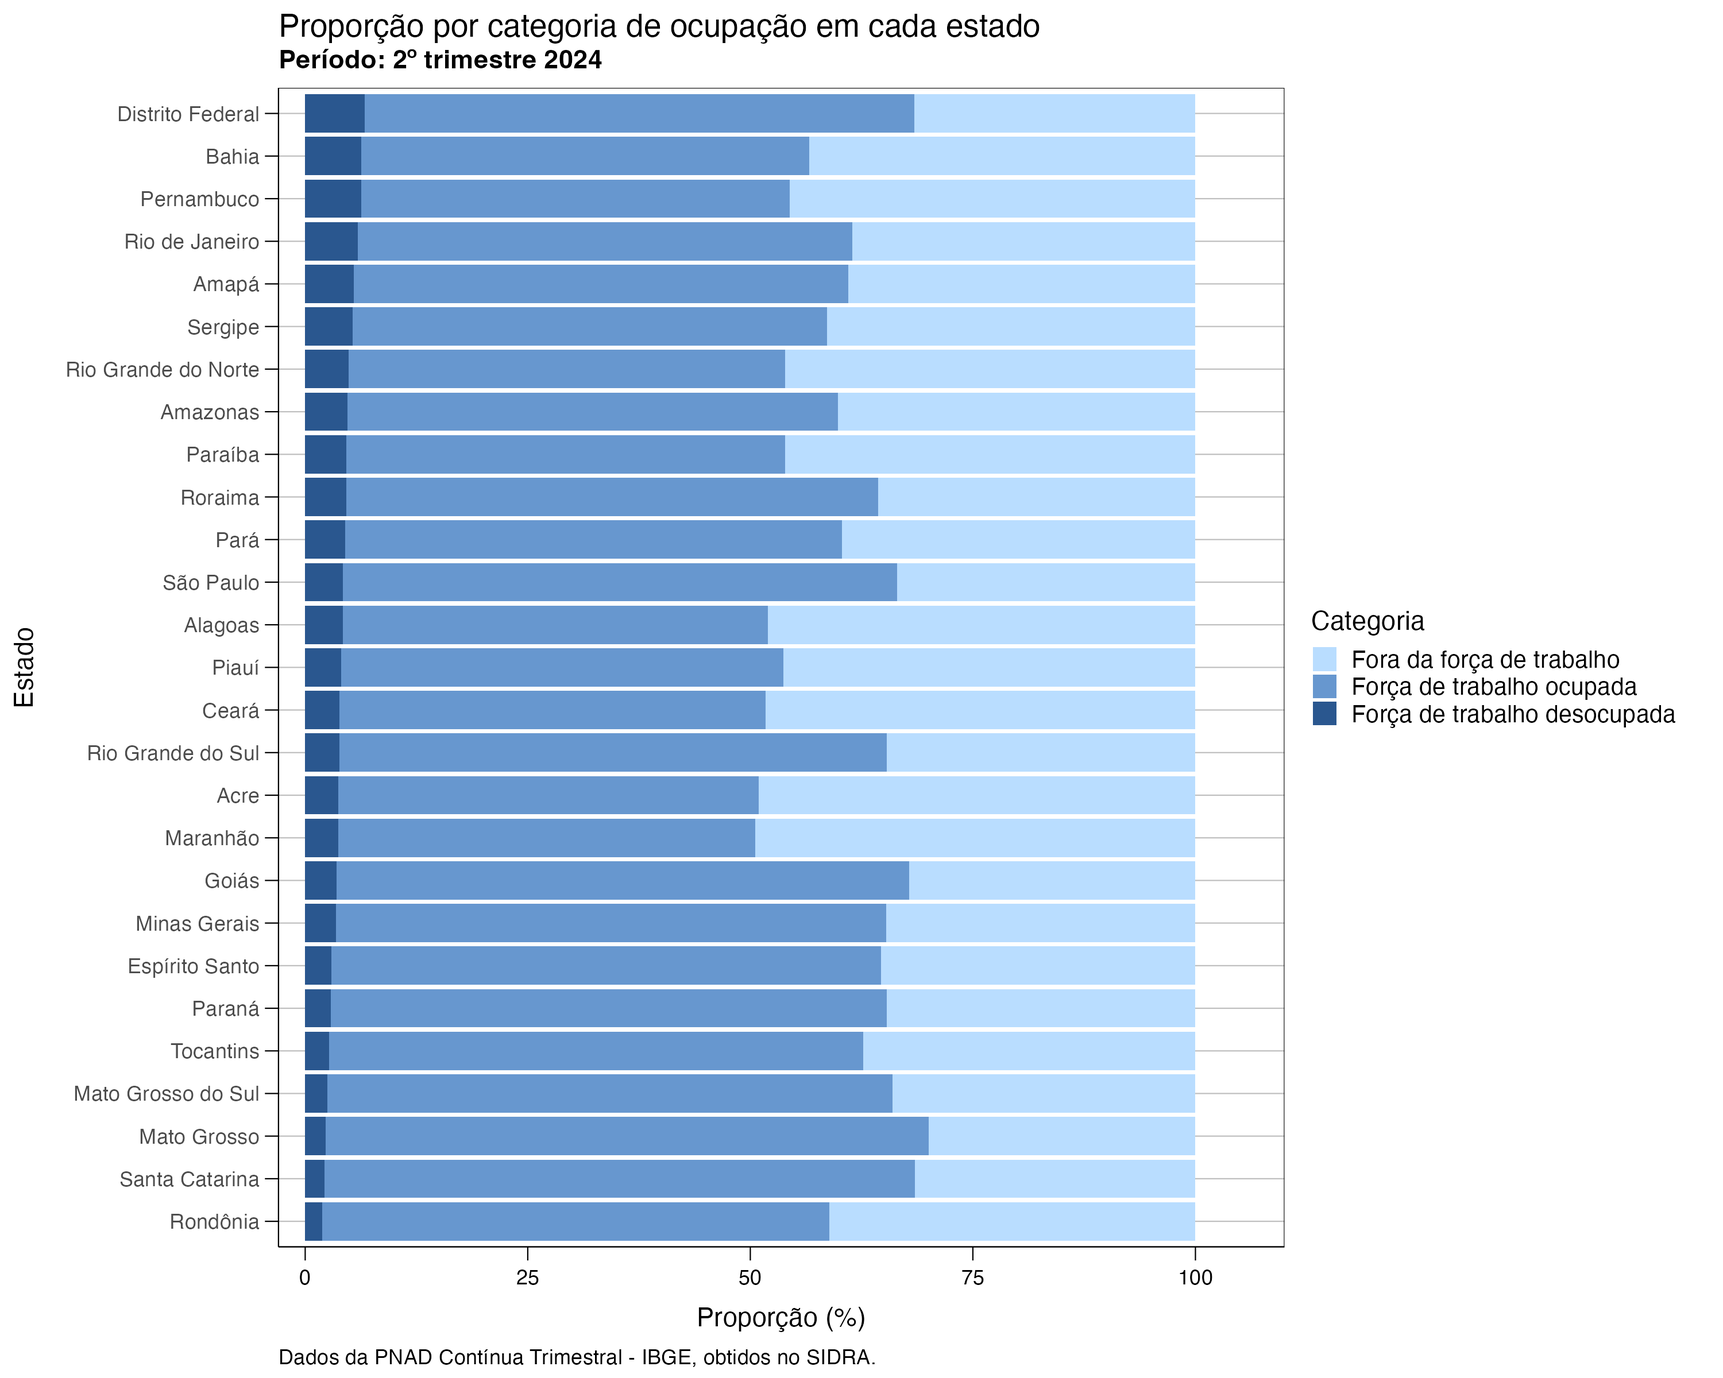
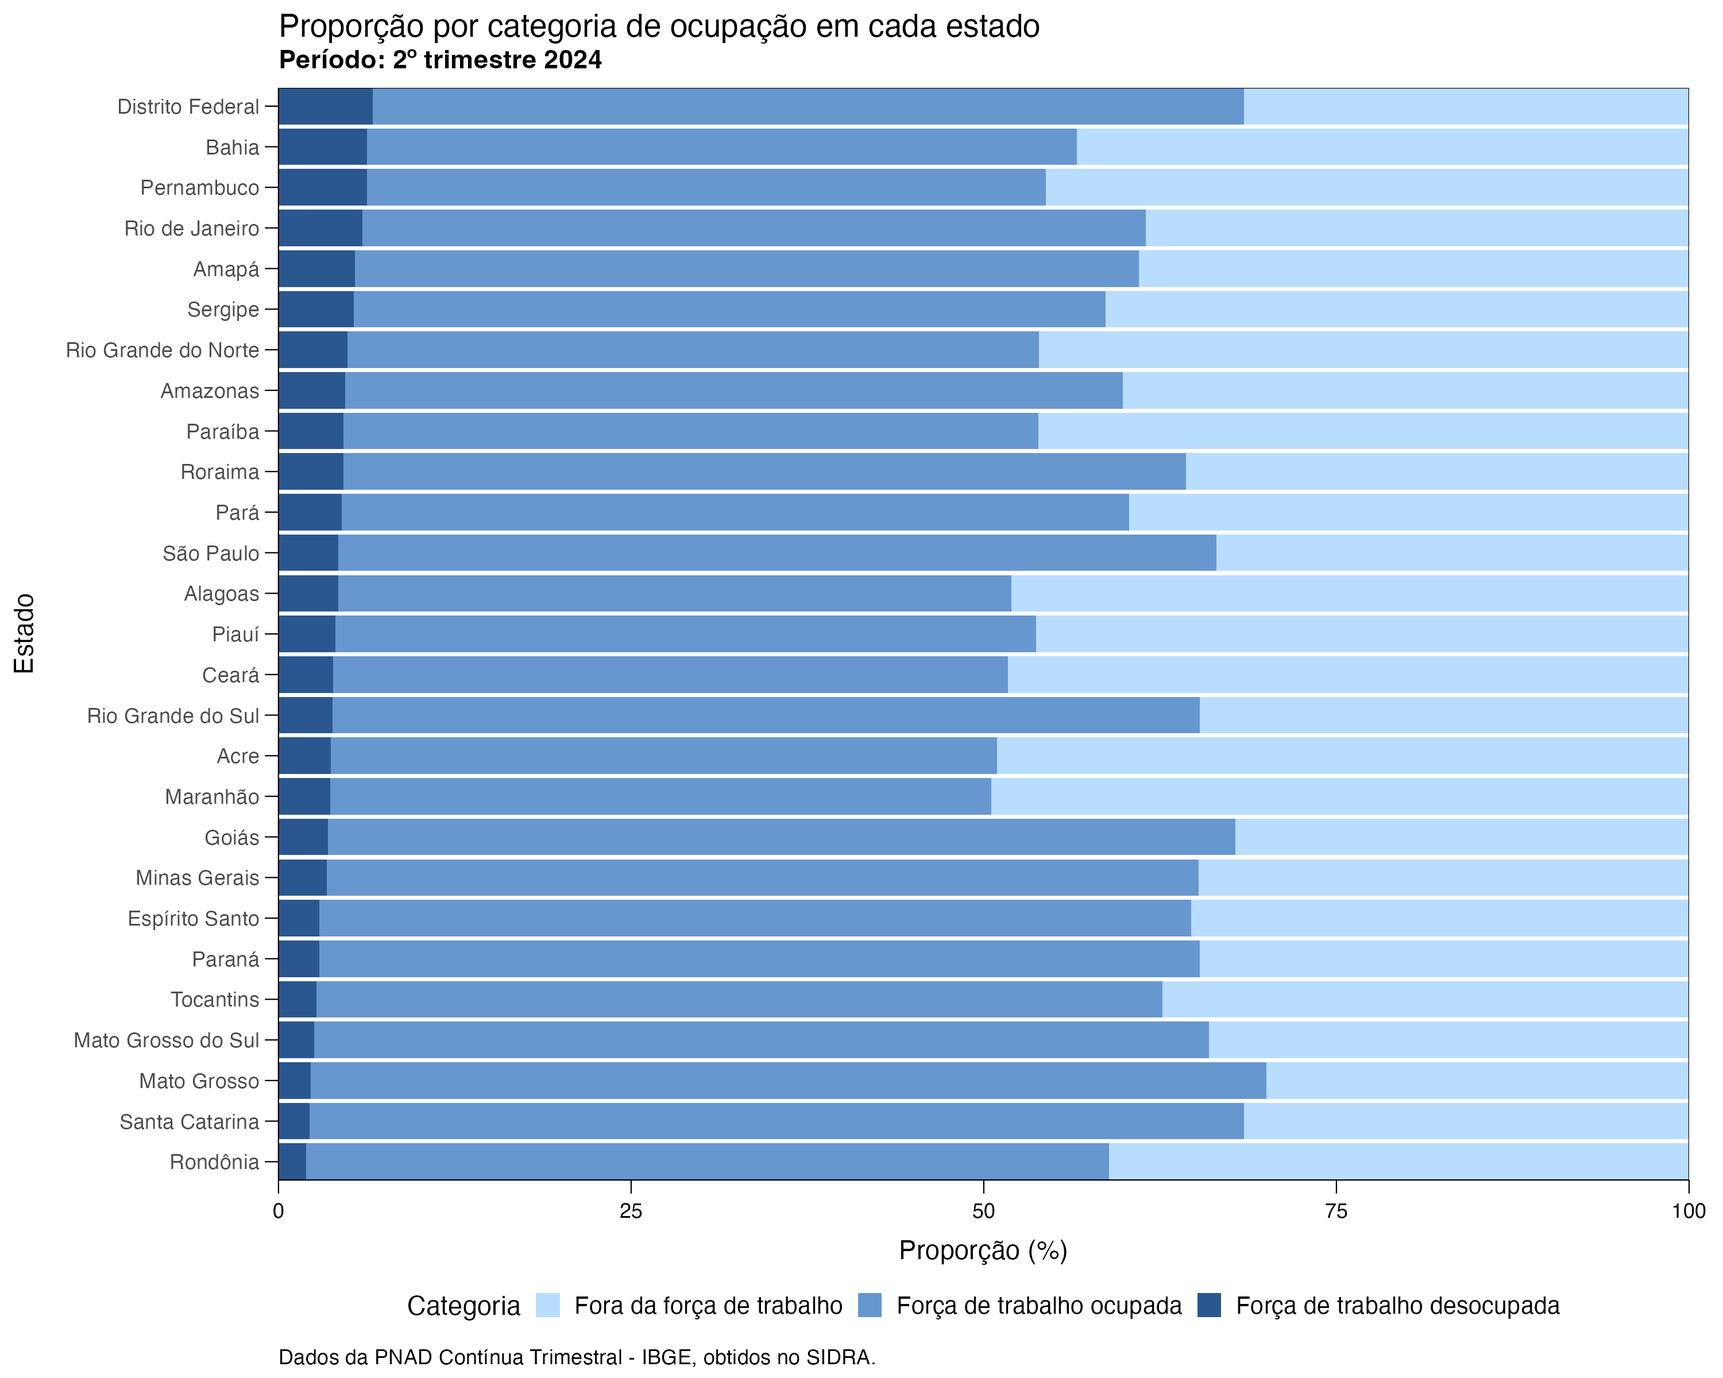
atualiza visualizacao exemplo

diff --git a/docs/07_visualizacao_exemplo.html b/docs/07_visualizacao_exemplo.html
@@ -436,24 +436,24 @@ Expanda para fazer download da base de dados
 <p>Caso não tenha o arquivo da tabela que utilizaremos, você pode baixar <a href="https://github.com/ipeadata-lab/curso_r_intro_202409/raw/refs/heads/main/dados_output/sidra_4092_arrumado.rds">aqui</a>, e copiar o arquivo para a pasta <code>dados_output</code> do seu projeto.</p>
 <p>Outra opção é executar o código abaixo:</p>
 <div class="cell">
-<div class="sourceCode cell-code" id="annotated-cell-17"><pre class="sourceCode r code-annotation-code code-with-copy code-annotated"><code class="sourceCode r"><span id="annotated-cell-17-1"><a href="#annotated-cell-17-1" aria-hidden="true" tabindex="-1"></a><span class="fu">download.file</span>(</span>
-<button class="code-annotation-anchor" data-target-cell="annotated-cell-17" data-target-annotation="1">1</button><span id="annotated-cell-17-2" class="code-annotation-target"><a href="#annotated-cell-17-2" aria-hidden="true" tabindex="-1"></a>  <span class="at">url =</span> <span class="st">"https://github.com/ipeadata-lab/curso_r_intro_202409/raw/refs/heads/main/dados_output/sidra_4092_arrumado.rds"</span>,</span>
-<button class="code-annotation-anchor" data-target-cell="annotated-cell-17" data-target-annotation="2">2</button><span id="annotated-cell-17-3" class="code-annotation-target"><a href="#annotated-cell-17-3" aria-hidden="true" tabindex="-1"></a>  <span class="at">destfile =</span> <span class="st">"dados_output/sidra_4092_arrumado.rds"</span>,</span>
-<button class="code-annotation-anchor" data-target-cell="annotated-cell-17" data-target-annotation="3">3</button><span id="annotated-cell-17-4" class="code-annotation-target"><a href="#annotated-cell-17-4" aria-hidden="true" tabindex="-1"></a>  <span class="at">mode =</span> <span class="st">"wb"</span></span>
-<span id="annotated-cell-17-5"><a href="#annotated-cell-17-5" aria-hidden="true" tabindex="-1"></a>  )</span><div class="code-annotation-gutter-bg"></div><div class="code-annotation-gutter"></div></code><button title="Copiar para a área de transferência" class="code-copy-button"><i class="bi"></i></button></pre></div>
+<div class="sourceCode cell-code" id="annotated-cell-18"><pre class="sourceCode r code-annotation-code code-with-copy code-annotated"><code class="sourceCode r"><span id="annotated-cell-18-1"><a href="#annotated-cell-18-1" aria-hidden="true" tabindex="-1"></a><span class="fu">download.file</span>(</span>
+<button class="code-annotation-anchor" data-target-cell="annotated-cell-18" data-target-annotation="1">1</button><span id="annotated-cell-18-2" class="code-annotation-target"><a href="#annotated-cell-18-2" aria-hidden="true" tabindex="-1"></a>  <span class="at">url =</span> <span class="st">"https://github.com/ipeadata-lab/curso_r_intro_202409/raw/refs/heads/main/dados_output/sidra_4092_arrumado.rds"</span>,</span>
+<button class="code-annotation-anchor" data-target-cell="annotated-cell-18" data-target-annotation="2">2</button><span id="annotated-cell-18-3" class="code-annotation-target"><a href="#annotated-cell-18-3" aria-hidden="true" tabindex="-1"></a>  <span class="at">destfile =</span> <span class="st">"dados_output/sidra_4092_arrumado.rds"</span>,</span>
+<button class="code-annotation-anchor" data-target-cell="annotated-cell-18" data-target-annotation="3">3</button><span id="annotated-cell-18-4" class="code-annotation-target"><a href="#annotated-cell-18-4" aria-hidden="true" tabindex="-1"></a>  <span class="at">mode =</span> <span class="st">"wb"</span></span>
+<span id="annotated-cell-18-5"><a href="#annotated-cell-18-5" aria-hidden="true" tabindex="-1"></a>  )</span><div class="code-annotation-gutter-bg"></div><div class="code-annotation-gutter"></div></code><button title="Copiar para a área de transferência" class="code-copy-button"><i class="bi"></i></button></pre></div>
 <div class="cell-annotation">
 <dl class="code-annotation-container-hidden code-annotation-container-grid">
-<dt data-target-cell="annotated-cell-17" data-target-annotation="1">1</dt>
+<dt data-target-cell="annotated-cell-18" data-target-annotation="1">1</dt>
 <dd>
-<span data-code-cell="annotated-cell-17" data-code-lines="2" data-code-annotation="1">URL que desejamos baixar</span>
+<span data-code-cell="annotated-cell-18" data-code-lines="2" data-code-annotation="1">URL que desejamos baixar</span>
 </dd>
-<dt data-target-cell="annotated-cell-17" data-target-annotation="2">2</dt>
+<dt data-target-cell="annotated-cell-18" data-target-annotation="2">2</dt>
 <dd>
-<span data-code-cell="annotated-cell-17" data-code-lines="3" data-code-annotation="2">Caminho onde queremos baixar o arquivo (diretório + nome do arquivo + extensão do arquivo)</span>
+<span data-code-cell="annotated-cell-18" data-code-lines="3" data-code-annotation="2">Caminho onde queremos baixar o arquivo (diretório + nome do arquivo + extensão do arquivo)</span>
 </dd>
-<dt data-target-cell="annotated-cell-17" data-target-annotation="3">3</dt>
+<dt data-target-cell="annotated-cell-18" data-target-annotation="3">3</dt>
 <dd>
-<span data-code-cell="annotated-cell-17" data-code-lines="4" data-code-annotation="3">Configuração que evita corromper arquivos binários.</span>
+<span data-code-cell="annotated-cell-18" data-code-lines="4" data-code-annotation="3">Configuração que evita corromper arquivos binários.</span>
 </dd>
 </dl>
 </div>
@@ -894,18 +894,26 @@ Expanda para fazer download da base de dados
 </div>
 <p>Agora aproveitaremos o exemplo anterior para demonstrar o funcionamnto do <code>{ipeaplot}</code>. Vamos começar a modificar a figura, usando o <code>{ipeaplot}</code> para ajustar ao “padrão do Ipea”. Primeiro usamos a função <code>theme_ipea()</code> no lugar de <code>theme_minimal()</code>.</p>
 <div class="cell">
-<div class="sourceCode cell-code" id="annotated-cell-14"><pre class="sourceCode r code-annotation-code code-with-copy code-annotated"><code class="sourceCode r"><span id="annotated-cell-14-1"><a href="#annotated-cell-14-1" aria-hidden="true" tabindex="-1"></a>grafico_ipeaplot <span class="ot">&lt;-</span> grafico_proporcao <span class="sc">+</span></span>
-<button class="code-annotation-anchor" data-target-cell="annotated-cell-14" data-target-annotation="1">1</button><span id="annotated-cell-14-2" class="code-annotation-target"><a href="#annotated-cell-14-2" aria-hidden="true" tabindex="-1"></a>  <span class="fu">theme_ipea</span>()</span>
-<span id="annotated-cell-14-3"><a href="#annotated-cell-14-3" aria-hidden="true" tabindex="-1"></a></span>
-<span id="annotated-cell-14-4"><a href="#annotated-cell-14-4" aria-hidden="true" tabindex="-1"></a>grafico_ipeaplot</span><div class="code-annotation-gutter-bg"></div><div class="code-annotation-gutter"></div></code><button title="Copiar para a área de transferência" class="code-copy-button"><i class="bi"></i></button></pre></div>
+<div class="sourceCode cell-code" id="annotated-cell-14"><pre class="sourceCode r code-annotation-code code-with-copy code-annotated"><code class="sourceCode r"><span id="annotated-cell-14-1"><a href="#annotated-cell-14-1" aria-hidden="true" tabindex="-1"></a>grafico_ipeaplot <span class="ot">&lt;-</span> grafico_proporcao <span class="sc">+</span> </span>
+<button class="code-annotation-anchor" data-target-cell="annotated-cell-14" data-target-annotation="1">1</button><span id="annotated-cell-14-2" class="code-annotation-target"><a href="#annotated-cell-14-2" aria-hidden="true" tabindex="-1"></a>  <span class="fu">theme_ipea</span>(<span class="at">legend.position =</span> <span class="st">"bottom"</span>) <span class="sc">+</span></span>
+<button class="code-annotation-anchor" data-target-cell="annotated-cell-14" data-target-annotation="2">2</button><span id="annotated-cell-14-3" class="code-annotation-target"><a href="#annotated-cell-14-3" aria-hidden="true" tabindex="-1"></a>  <span class="fu">coord_flip</span>(<span class="at">expand =</span> <span class="cn">FALSE</span>)</span><div class="code-annotation-gutter-bg"></div><div class="code-annotation-gutter"></div></code><button title="Copiar para a área de transferência" class="code-copy-button"><i class="bi"></i></button></pre></div>
 <div class="cell-annotation">
 <dl class="code-annotation-container-hidden code-annotation-container-grid">
 <dt data-target-cell="annotated-cell-14" data-target-annotation="1">1</dt>
 <dd>
 <span data-code-cell="annotated-cell-14" data-code-lines="2" data-code-annotation="1">Adotando o tema padrão do Ipea</span>
 </dd>
+<dt data-target-cell="annotated-cell-14" data-target-annotation="2">2</dt>
+<dd>
+<span data-code-cell="annotated-cell-14" data-code-lines="3" data-code-annotation="2">Retirando espaços em branco. O argumento <code>expand = FALSE</code> limita o gráfico à área dos dados (sem espaços em branco antes do valor 0 e depois do valor 100).</span>
+</dd>
 </dl>
 </div>
+<div class="cell-output cell-output-stderr">
+<pre><code>Coordinate system already present. Adding new coordinate system, which will
+replace the existing one.</code></pre>
+</div>
+<div class="sourceCode cell-code" id="cb5"><pre class="sourceCode r code-with-copy"><code class="sourceCode r"><span id="cb5-1"><a href="#cb5-1" aria-hidden="true" tabindex="-1"></a>grafico_ipeaplot</span></code><button title="Copiar para a área de transferência" class="code-copy-button"><i class="bi"></i></button></pre></div>
 <div class="cell-output-display">
 <div>
 <figure class="figure">
@@ -916,15 +924,15 @@ Expanda para fazer download da base de dados
 </div>
 <p>Apesar de sutis, temos alterações nas bordas, nas fontes e nas legendas da figura. Em seguida, vamos mudar a escala de cores para adotar o padrão “Texto para Discussão do Ipea” (paleta de cores azul):</p>
 <div class="cell">
-<div class="sourceCode cell-code" id="annotated-cell-15"><pre class="sourceCode r code-annotation-code code-with-copy code-annotated"><code class="sourceCode r"><span id="annotated-cell-15-1"><a href="#annotated-cell-15-1" aria-hidden="true" tabindex="-1"></a>grafico_ipeaplot <span class="ot">&lt;-</span> grafico_ipeaplot <span class="sc">+</span></span>
-<button class="code-annotation-anchor" data-target-cell="annotated-cell-15" data-target-annotation="1">1</button><span id="annotated-cell-15-2" class="code-annotation-target"><a href="#annotated-cell-15-2" aria-hidden="true" tabindex="-1"></a>  <span class="fu">scale_fill_ipea</span>(<span class="at">palette =</span> <span class="st">'Blue'</span>)</span>
-<span id="annotated-cell-15-3"><a href="#annotated-cell-15-3" aria-hidden="true" tabindex="-1"></a></span>
-<span id="annotated-cell-15-4"><a href="#annotated-cell-15-4" aria-hidden="true" tabindex="-1"></a>grafico_ipeaplot</span><div class="code-annotation-gutter-bg"></div><div class="code-annotation-gutter"></div></code><button title="Copiar para a área de transferência" class="code-copy-button"><i class="bi"></i></button></pre></div>
+<div class="sourceCode cell-code" id="annotated-cell-16"><pre class="sourceCode r code-annotation-code code-with-copy code-annotated"><code class="sourceCode r"><span id="annotated-cell-16-1"><a href="#annotated-cell-16-1" aria-hidden="true" tabindex="-1"></a>grafico_ipeaplot <span class="ot">&lt;-</span> grafico_ipeaplot <span class="sc">+</span></span>
+<button class="code-annotation-anchor" data-target-cell="annotated-cell-16" data-target-annotation="1">1</button><span id="annotated-cell-16-2" class="code-annotation-target"><a href="#annotated-cell-16-2" aria-hidden="true" tabindex="-1"></a>  <span class="fu">scale_fill_ipea</span>(<span class="at">palette =</span> <span class="st">'Blue'</span>)</span>
+<span id="annotated-cell-16-3"><a href="#annotated-cell-16-3" aria-hidden="true" tabindex="-1"></a></span>
+<span id="annotated-cell-16-4"><a href="#annotated-cell-16-4" aria-hidden="true" tabindex="-1"></a>grafico_ipeaplot</span><div class="code-annotation-gutter-bg"></div><div class="code-annotation-gutter"></div></code><button title="Copiar para a área de transferência" class="code-copy-button"><i class="bi"></i></button></pre></div>
 <div class="cell-annotation">
 <dl class="code-annotation-container-hidden code-annotation-container-grid">
-<dt data-target-cell="annotated-cell-15" data-target-annotation="1">1</dt>
+<dt data-target-cell="annotated-cell-16" data-target-annotation="1">1</dt>
 <dd>
-<span data-code-cell="annotated-cell-15" data-code-lines="2" data-code-annotation="1">Usando a paleta de cores azul (“TD”)</span>
+<span data-code-cell="annotated-cell-16" data-code-lines="2" data-code-annotation="1">Usando a paleta de cores azul (“TD”)</span>
 </dd>
 </dl>
 </div>
@@ -938,28 +946,28 @@ Expanda para fazer download da base de dados
 </div>
 <p>Aí está, temos uma figura pronta para publicarmos nosso primeiro “Texto para Discussão” usando o R. Na verdade, nem tão pronta assim, pois o Ipea usa em títulos e legendas a família de fontes <em>Frutiger</em>. Como não é uma família com licença livre não podemos distribuir no <code>{ipeaplot}</code>. Porém, com o passo a seguir, o Editorial poderá, ao receber seu material para publicação, fazer os ajustes necessários na fonte dos títulos e legendas.</p>
 <div class="cell">
-<div class="sourceCode cell-code" id="annotated-cell-16"><pre class="sourceCode r code-annotation-code code-with-copy code-annotated"><code class="sourceCode r"><button class="code-annotation-anchor" data-target-cell="annotated-cell-16" data-target-annotation="1">1</button><span id="annotated-cell-16-1" class="code-annotation-target"><a href="#annotated-cell-16-1" aria-hidden="true" tabindex="-1"></a><span class="fu">save_eps</span>(grafico_ipeaplot,</span>
-<span id="annotated-cell-16-2"><a href="#annotated-cell-16-2" aria-hidden="true" tabindex="-1"></a>         <span class="at">file.name =</span> <span class="st">"graficos/grafico_ipeaplot.eps"</span>,</span>
-<span id="annotated-cell-16-3"><a href="#annotated-cell-16-3" aria-hidden="true" tabindex="-1"></a>         <span class="at">width =</span> <span class="dv">10</span>,</span>
-<span id="annotated-cell-16-4"><a href="#annotated-cell-16-4" aria-hidden="true" tabindex="-1"></a>         <span class="at">height =</span> <span class="dv">8</span>,</span>
-<span id="annotated-cell-16-5"><a href="#annotated-cell-16-5" aria-hidden="true" tabindex="-1"></a>         <span class="at">dpi =</span> <span class="dv">300</span></span>
-<span id="annotated-cell-16-6"><a href="#annotated-cell-16-6" aria-hidden="true" tabindex="-1"></a>)</span>
-<span id="annotated-cell-16-7"><a href="#annotated-cell-16-7" aria-hidden="true" tabindex="-1"></a></span>
-<button class="code-annotation-anchor" data-target-cell="annotated-cell-16" data-target-annotation="2">2</button><span id="annotated-cell-16-8" class="code-annotation-target"><a href="#annotated-cell-16-8" aria-hidden="true" tabindex="-1"></a><span class="fu">save_pdf</span>(grafico_ipeaplot,</span>
-<span id="annotated-cell-16-9"><a href="#annotated-cell-16-9" aria-hidden="true" tabindex="-1"></a>         <span class="at">file.name =</span> <span class="st">"graficos/grafico_ipeaplot.pdf"</span>,</span>
-<span id="annotated-cell-16-10"><a href="#annotated-cell-16-10" aria-hidden="true" tabindex="-1"></a>         <span class="at">width =</span> <span class="dv">10</span>,</span>
-<span id="annotated-cell-16-11"><a href="#annotated-cell-16-11" aria-hidden="true" tabindex="-1"></a>         <span class="at">height =</span> <span class="dv">8</span>,</span>
-<span id="annotated-cell-16-12"><a href="#annotated-cell-16-12" aria-hidden="true" tabindex="-1"></a>         <span class="at">dpi =</span> <span class="dv">300</span></span>
-<span id="annotated-cell-16-13"><a href="#annotated-cell-16-13" aria-hidden="true" tabindex="-1"></a>)</span><div class="code-annotation-gutter-bg"></div><div class="code-annotation-gutter"></div></code><button title="Copiar para a área de transferência" class="code-copy-button"><i class="bi"></i></button></pre></div>
+<div class="sourceCode cell-code" id="annotated-cell-17"><pre class="sourceCode r code-annotation-code code-with-copy code-annotated"><code class="sourceCode r"><button class="code-annotation-anchor" data-target-cell="annotated-cell-17" data-target-annotation="1">1</button><span id="annotated-cell-17-1" class="code-annotation-target"><a href="#annotated-cell-17-1" aria-hidden="true" tabindex="-1"></a><span class="fu">save_eps</span>(grafico_ipeaplot,</span>
+<span id="annotated-cell-17-2"><a href="#annotated-cell-17-2" aria-hidden="true" tabindex="-1"></a>         <span class="at">file.name =</span> <span class="st">"graficos/grafico_ipeaplot.eps"</span>,</span>
+<span id="annotated-cell-17-3"><a href="#annotated-cell-17-3" aria-hidden="true" tabindex="-1"></a>         <span class="at">width =</span> <span class="dv">10</span>,</span>
+<span id="annotated-cell-17-4"><a href="#annotated-cell-17-4" aria-hidden="true" tabindex="-1"></a>         <span class="at">height =</span> <span class="dv">8</span>,</span>
+<span id="annotated-cell-17-5"><a href="#annotated-cell-17-5" aria-hidden="true" tabindex="-1"></a>         <span class="at">dpi =</span> <span class="dv">300</span></span>
+<span id="annotated-cell-17-6"><a href="#annotated-cell-17-6" aria-hidden="true" tabindex="-1"></a>)</span>
+<span id="annotated-cell-17-7"><a href="#annotated-cell-17-7" aria-hidden="true" tabindex="-1"></a></span>
+<button class="code-annotation-anchor" data-target-cell="annotated-cell-17" data-target-annotation="2">2</button><span id="annotated-cell-17-8" class="code-annotation-target"><a href="#annotated-cell-17-8" aria-hidden="true" tabindex="-1"></a><span class="fu">save_pdf</span>(grafico_ipeaplot,</span>
+<span id="annotated-cell-17-9"><a href="#annotated-cell-17-9" aria-hidden="true" tabindex="-1"></a>         <span class="at">file.name =</span> <span class="st">"graficos/grafico_ipeaplot.pdf"</span>,</span>
+<span id="annotated-cell-17-10"><a href="#annotated-cell-17-10" aria-hidden="true" tabindex="-1"></a>         <span class="at">width =</span> <span class="dv">10</span>,</span>
+<span id="annotated-cell-17-11"><a href="#annotated-cell-17-11" aria-hidden="true" tabindex="-1"></a>         <span class="at">height =</span> <span class="dv">8</span>,</span>
+<span id="annotated-cell-17-12"><a href="#annotated-cell-17-12" aria-hidden="true" tabindex="-1"></a>         <span class="at">dpi =</span> <span class="dv">300</span></span>
+<span id="annotated-cell-17-13"><a href="#annotated-cell-17-13" aria-hidden="true" tabindex="-1"></a>)</span><div class="code-annotation-gutter-bg"></div><div class="code-annotation-gutter"></div></code><button title="Copiar para a área de transferência" class="code-copy-button"><i class="bi"></i></button></pre></div>
 <div class="cell-annotation">
 <dl class="code-annotation-container-hidden code-annotation-container-grid">
-<dt data-target-cell="annotated-cell-16" data-target-annotation="1">1</dt>
+<dt data-target-cell="annotated-cell-17" data-target-annotation="1">1</dt>
 <dd>
-<span data-code-cell="annotated-cell-16" data-code-lines="1,6" data-code-annotation="1">Salvando o gráfico em formato <code>.eps</code></span>
+<span data-code-cell="annotated-cell-17" data-code-lines="1,6" data-code-annotation="1">Salvando o gráfico em formato <code>.eps</code></span>
 </dd>
-<dt data-target-cell="annotated-cell-16" data-target-annotation="2">2</dt>
+<dt data-target-cell="annotated-cell-17" data-target-annotation="2">2</dt>
 <dd>
-<span data-code-cell="annotated-cell-16" data-code-lines="8,13" data-code-annotation="2">Salvando o gráfico em formato <code>.pdf</code></span>
+<span data-code-cell="annotated-cell-17" data-code-lines="8,13" data-code-annotation="2">Salvando o gráfico em formato <code>.pdf</code></span>
 </dd>
 </dl>
 </div>
